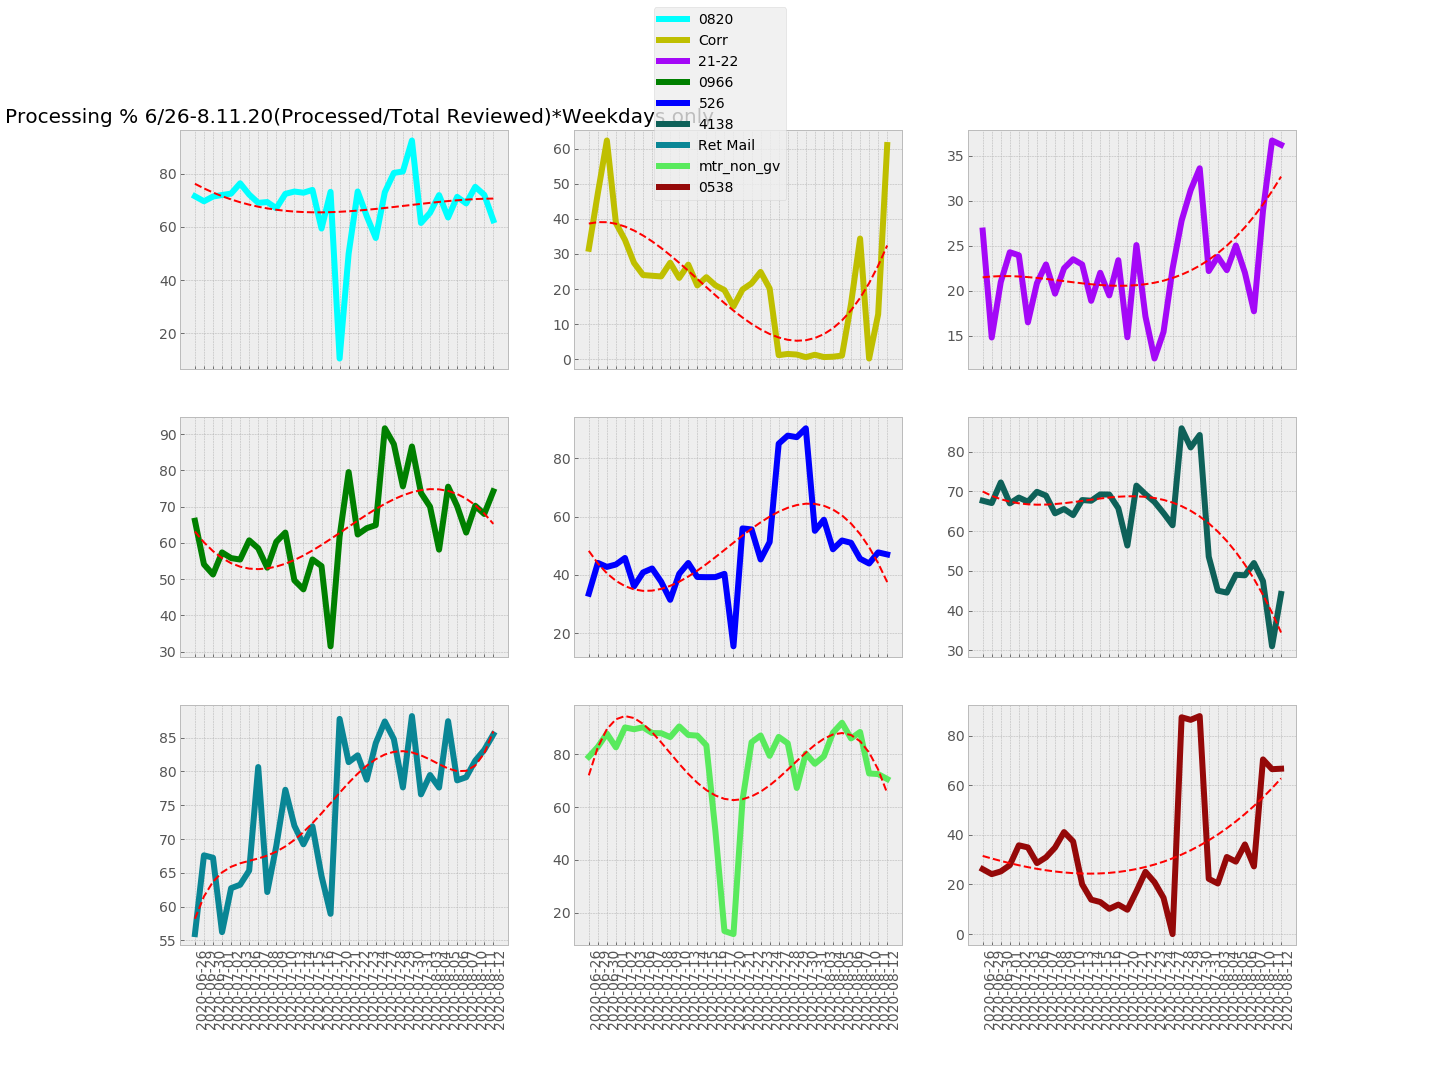
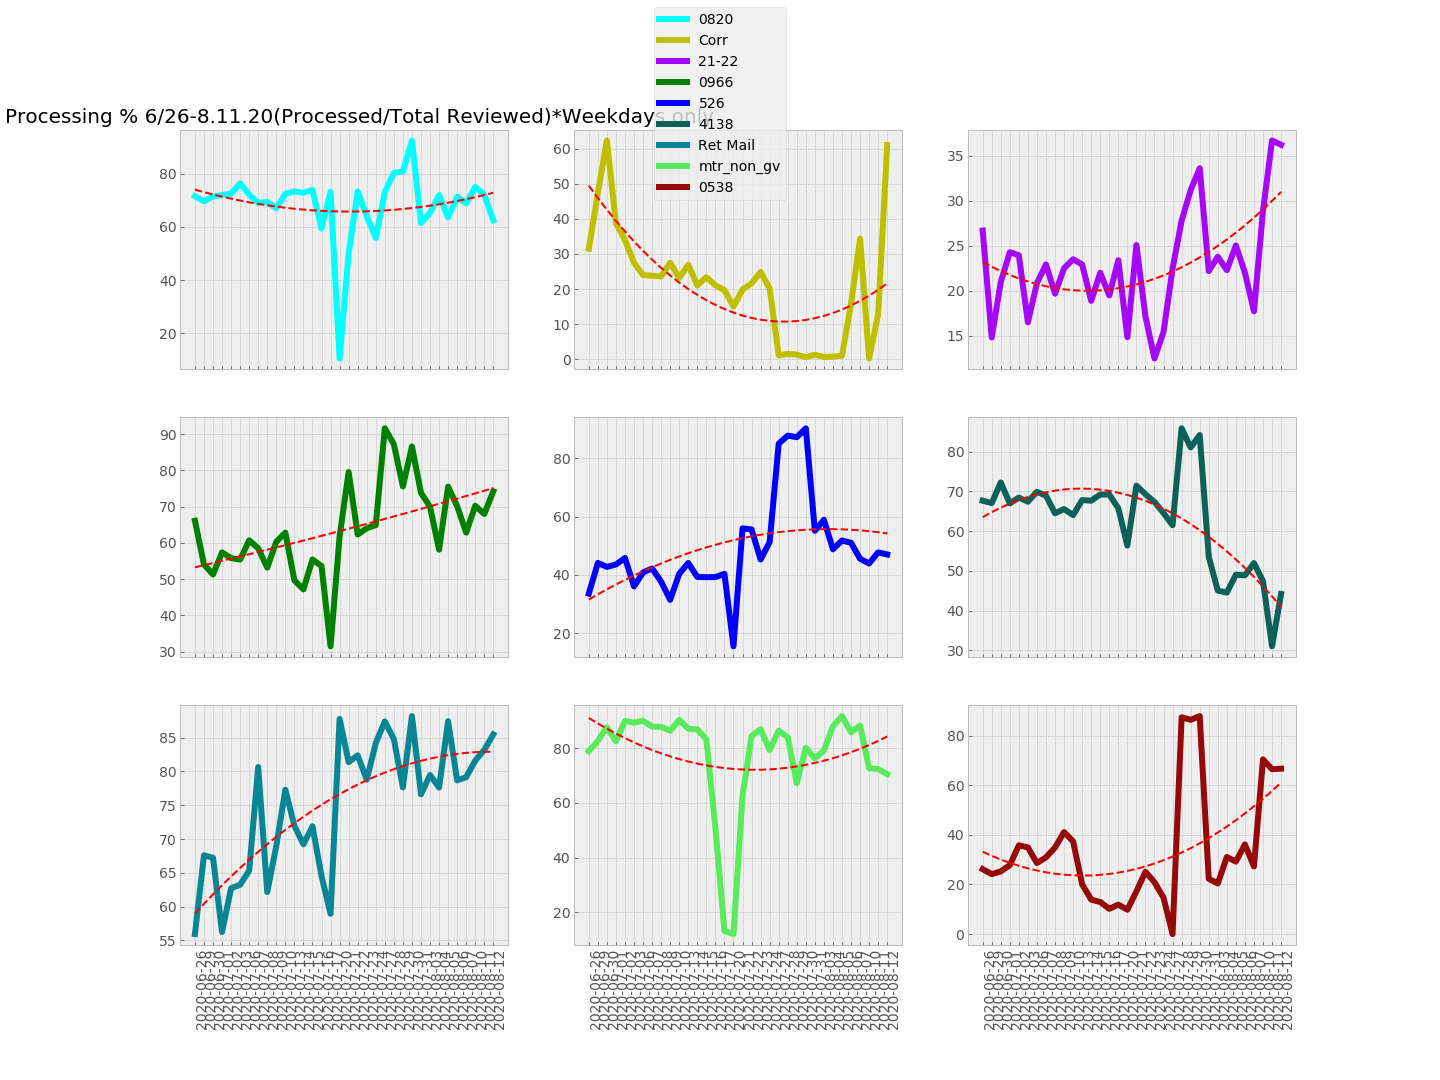
changes

diff --git a/Weekly.html b/Weekly.html
@@ -29,10 +29,10 @@
     <iframe src="https://chart-studio.plotly.com/~mshuff/743.embed" width="1000" height="1000" allowfullscreen="allowfullscreen" class="center"></iframe>
     </p>
     <br>
-    <img src='July Doc Processing Counts(Weekdays Only).png' height='750px' width='1200px' class='center'>
-    <p>These are the daily processing numbers for selected doctypes. (#Processed/(#Processed+#Offramped)).Measured from all the packets the bots reviewed that day. Weekends not included. </p>
     <img src='Report-imgs/Weekly Doc Processing percentage.png' height='750px' width='1200px' class='center'>
     <p> Focus on the trendlines here for the doctypes(data since 06/26)</p>
+    <img src='July Doc Processing Counts(Weekdays Only).png' height='750px' width='1200px' class='center'>
+    <p>processing rates with Trendlines included since 06/26.</p>
     <img src='Report-imgs/DOC Percentage Rate all docs.png' height='1100px' width='900' class='center'>
     <p>These are the daily # of all processed documents/Processed+Offramped</p>
     <img src='Report-imgs/Hil_Tracking.png' height='1100px' width='1200px' class='center'>
